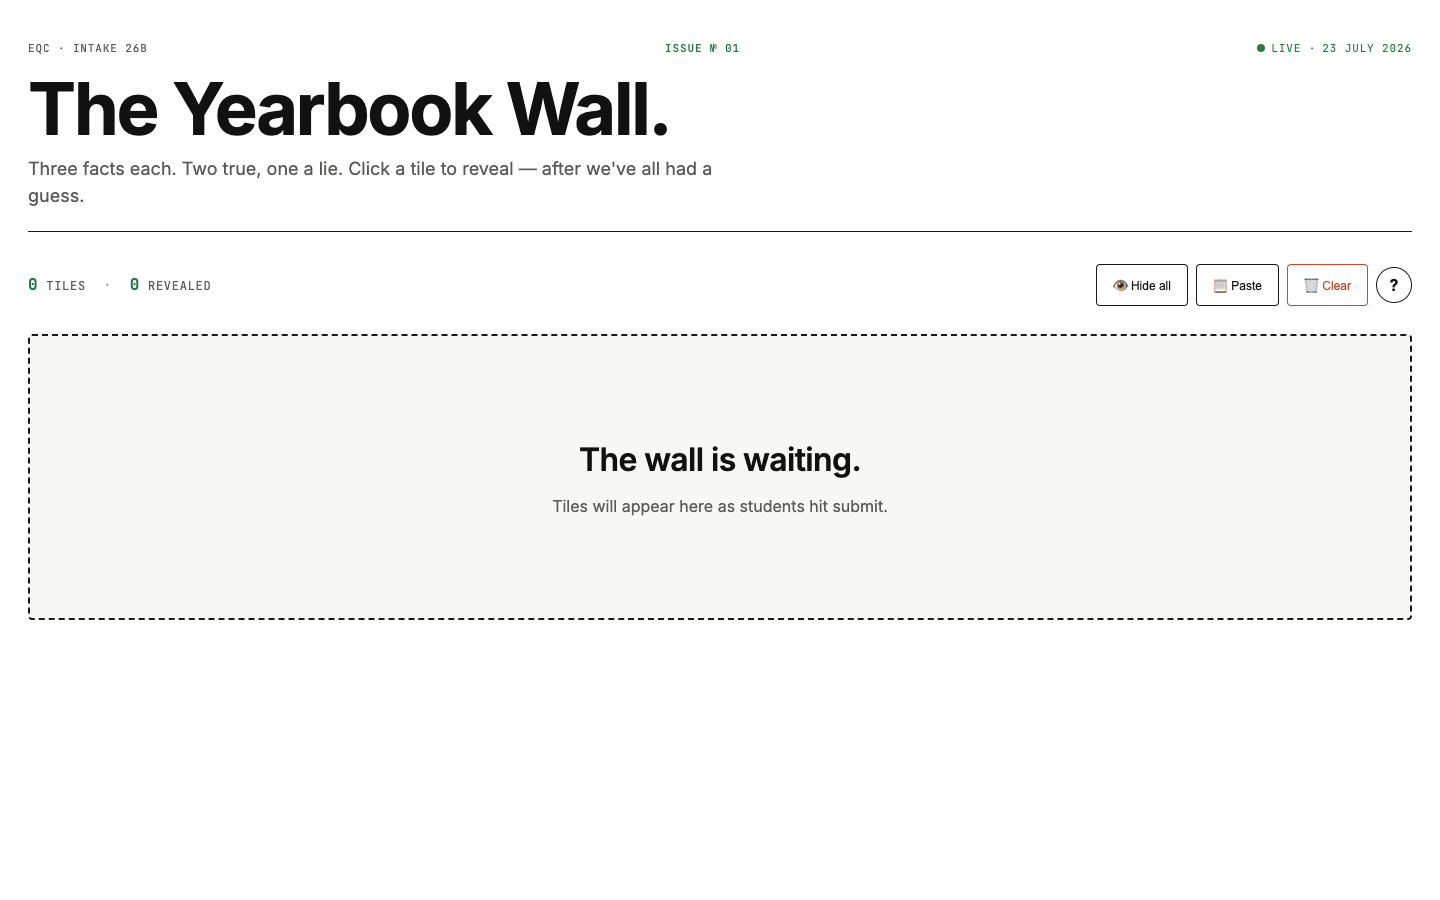
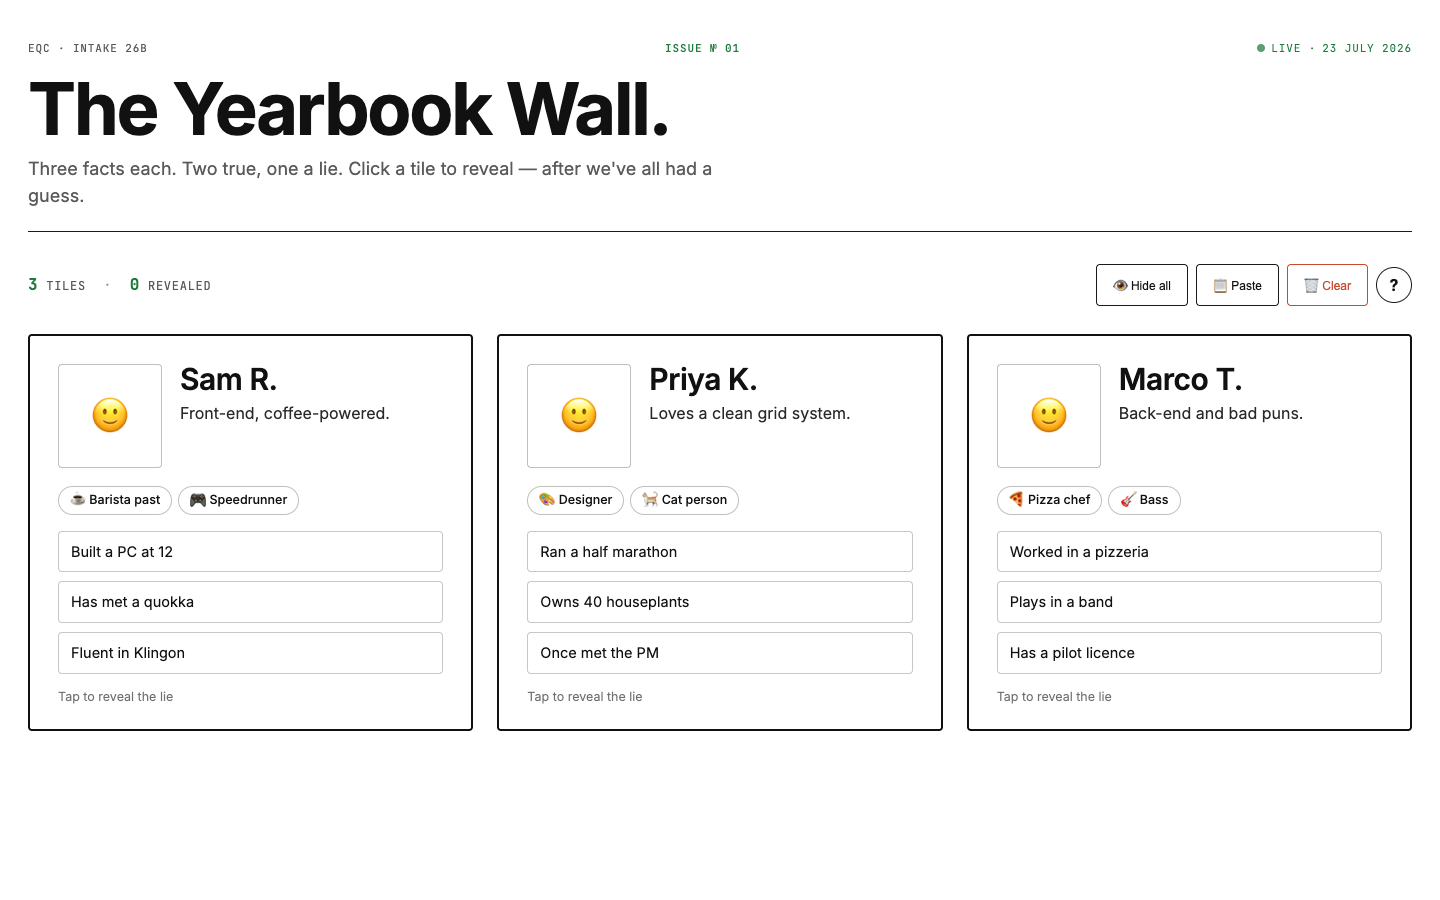
Lift client tiles, reorganise education work, halve mobile scroll
Client tiles: pale screenshots (Preservation Framers, Dora Health) were
dissolving into the near-white section. Cards now carry a 1px inset ring, a
layered shadow and a hover lift; screenshots get a bottom keyline; the client
section sits on a warm tint rather than pure white. Preservation Framers also
recaptured further down the page — workshop and framing samples instead of a
centred logo on white.

Education work reorganised into two labelled groups. Class hubs are now named
cohort-first with the intake in brackets — Tim's EQC Minions (26.13), Quokka
Squad (25G), Class Hub (26B), Class Page (25G) — with the course as the
kicker. Removed the two cohort dashboards and the Perth Campus Dashboard tile
(already the featured build at the top): 10 projects down to 7.

Yearbook Wall was screenshotting as an empty "the wall is waiting" state.
It now shows three example tiles so the format reads. Those tiles were
rendered client-side for the screenshot only — nothing was written to the
project's Firebase database, and the names are invented, not students.

Mobile: 18,931px of scroll down to 10,479px — 45% shorter, 22.4 screens to
12.4, with every thumbnail kept. Project grids go two-up via an opt-in
.grid-compact (other stacked grids are untouched), card text clamps to three
lines, phone mockups crop to 4:5 instead of 9:16, section rhythm tightens and
the logo wall packs more per row.

diff --git a/work.html b/work.html
@@ -143,14 +143,14 @@
   </section>
 
   <!-- ============ CLIENT WORK ============ -->
-  <section class="section" id="client-work" aria-labelledby="client-title" style="background:#fff;">
+  <section class="section" id="client-work" aria-labelledby="client-title" style="background:#FDF9F3;">
     <div class="wrap">
       <div class="section-head">
         <p class="kicker">Category 01</p>
         <h2 id="client-title">Client sites &amp; brands<span class="count-chip">7 projects</span></h2>
         <p>Businesses that needed a presence worth paying attention to — health, hospitality, trades, the arts and beyond.</p>
       </div>
-      <div class="grid-3">
+      <div class="grid-3 grid-compact">
 
         <article class="card project-card reveal">
           <img src="/assets/img/portfolio/dora-health.png" alt="Dora Health and Wellbeing website homepage" loading="lazy">
@@ -233,7 +233,7 @@
     </div>
   </section>
 
-  <svg class="divider" viewBox="0 0 1000 64" preserveAspectRatio="none" aria-hidden="true" style="background:#fff;">
+  <svg class="divider" viewBox="0 0 1000 64" preserveAspectRatio="none" aria-hidden="true" style="background:#FDF9F3;">
     <path d="M0,64 L0,30 C220,-10 480,58 720,26 C850,10 940,22 1000,16 L1000,64 Z" fill="#FFF8EF"/>
   </svg>
 
@@ -242,76 +242,61 @@
     <div class="wrap">
       <div class="section-head">
         <p class="kicker">Category 02</p>
-        <h2 id="campus-title">Campus &amp; education systems<span class="count-chip">10 projects</span></h2>
-        <p>An ongoing body of work for Equinim College — class hubs, dashboards, attendance tools and teaching resources, built alongside real cohorts and used daily by trainers and students.</p>
+        <h2 id="campus-title">Campus &amp; education systems<span class="count-chip">7 projects</span></h2>
+        <p>An ongoing body of work for Equinim College — a class hub for every cohort, plus the teaching tools and community pieces that go with them. Built alongside real intakes and used daily by trainers and students.</p>
       </div>
-      <div class="grid-3">
 
-        <article class="card project-card reveal">
-          <img src="/assets/img/portfolio/eqc-25g-dashboard.png" alt="25G Dashboard with attendance leaderboard and subject tracking" loading="lazy">
-          <div class="project-body">
-            <p class="kicker" style="margin-bottom:6px;">Cohort dashboard</p>
-            <h3>25G Dashboard</h3>
-            <p>A live classroom command centre — attendance leaderboards, subject progress and daily check-ins on one dark-mode board.</p>
-            <div class="tag-row"><span class="tag">Dashboard</span><span class="tag">Gamification</span></div>
-            <a class="card-link" href="https://25g-dashboard.vercel.app" rel="noopener">Visit site<span class="visually-hidden"> — 25G Dashboard (opens external site)</span> &rarr;</a>
-          </div>
-        </article>
-
-        <article class="card project-card reveal">
-          <img src="/assets/img/portfolio/eqc-intake-26b.png" alt="Intake 26B dashboard showing trainer, attendance, quiz and course progress panels" loading="lazy">
-          <div class="project-body">
-            <p class="kicker" style="margin-bottom:6px;">Cohort dashboard</p>
-            <h3>Intake 26B</h3>
-            <p>Diploma of IT cohort hub — today's topics, attendance, a daily quiz and course progress, all on a single glanceable screen.</p>
-            <div class="tag-row"><span class="tag">Dashboard</span><span class="tag">Daily quiz</span></div>
-            <a class="card-link" href="https://intake-25g-dashboard.vercel.app" rel="noopener">Visit site<span class="visually-hidden"> — Intake 26B (opens external site)</span> &rarr;</a>
-          </div>
-        </article>
-
-        <article class="card project-card reveal">
-          <img src="/assets/img/portfolio/eqc-quokka-squad.png" alt="Quokka Squad 25g class hub homepage" loading="lazy">
-          <div class="project-body">
-            <p class="kicker" style="margin-bottom:6px;">Class hub</p>
-            <h3>Quokka Squad 25g</h3>
-            <p>A friendly landing pad for the intake — schedules, resources and quick links, with QR-code attendance check-in built in.</p>
-            <div class="tag-row"><span class="tag">Class hub</span><span class="tag">QR attendance</span></div>
-            <a class="card-link" href="https://eqc-intake-25g.vercel.app" rel="noopener">Visit site<span class="visually-hidden"> — Quokka Squad 25g (opens external site)</span> &rarr;</a>
-          </div>
-        </article>
-
-        <article class="card project-card reveal">
-          <img src="/assets/img/portfolio/eqc-classhub-26b.png" alt="26B Class Hub with course overview and lesson resources" loading="lazy">
-          <div class="project-body">
-            <p class="kicker" style="margin-bottom:6px;">Class hub</p>
-            <h3>26B Class Hub</h3>
-            <p>Front-end web dev course hub — schedule, downloads, cheat sheets and lesson code, bookmarked by the whole cohort.</p>
-            <div class="tag-row"><span class="tag">Class hub</span><span class="tag">Resources</span></div>
-            <a class="card-link" href="https://eqc-26b-classhub.vercel.app" rel="noopener">Visit site<span class="visually-hidden"> — 26B Class Hub (opens external site)</span> &rarr;</a>
-          </div>
-        </article>
+      <p class="subhead">Cohort class hubs</p>
+      <div class="grid-3 grid-compact">
 
         <article class="card project-card reveal">
           <img src="/assets/img/portfolio/eqc-classhub-2613.png" alt="Tim's EQC Minions class hub for intake 26.13" loading="lazy">
           <div class="project-body">
-            <p class="kicker" style="margin-bottom:6px;">Class hub</p>
-            <h3>Intake 26.13 Hub</h3>
-            <p>Central hub for the web development intake — install-your-tools onboarding, attendance and each week's class in one place.</p>
+            <p class="kicker" style="margin-bottom:6px;">Web development</p>
+            <h3>Tim's EQC Minions <span style="color:var(--purple-deep);">(26.13)</span></h3>
+            <p>Central hub for the intake — install-your-tools onboarding, attendance and each week's class in one place.</p>
             <div class="tag-row"><span class="tag">Class hub</span><span class="tag">Onboarding</span></div>
-            <a class="card-link" href="https://eqc-2613-classhub.vercel.app" rel="noopener">Visit site<span class="visually-hidden"> — Intake 26.13 Hub (opens external site)</span> &rarr;</a>
+            <a class="card-link" href="https://eqc-2613-classhub.vercel.app" rel="noopener">Visit site<span class="visually-hidden"> — Tim's EQC Minions 26.13 (opens external site)</span> &rarr;</a>
           </div>
         </article>
 
         <article class="card project-card reveal">
-          <img src="/assets/img/portfolio/eqc-class-page-25g.png" alt="Intake 25g class page showing subject 3 back-end web app project" loading="lazy">
+          <img src="/assets/img/portfolio/eqc-quokka-squad.png" alt="Quokka Squad class hub homepage for intake 25G" loading="lazy">
           <div class="project-body">
-            <p class="kicker" style="margin-bottom:6px;">Class hub</p>
-            <h3>Intake 25g Class Page</h3>
-            <p>Subject-by-subject project briefs with a daily trivia game and attendance leaderboard to keep a long course moving.</p>
-            <div class="tag-row"><span class="tag">Class hub</span><span class="tag">Project briefs</span></div>
-            <a class="card-link" href="https://class-page-inky.vercel.app" rel="noopener">Visit site<span class="visually-hidden"> — Intake 25g Class Page (opens external site)</span> &rarr;</a>
+            <p class="kicker" style="margin-bottom:6px;">Diploma of IT</p>
+            <h3>Quokka Squad <span style="color:var(--purple-deep);">(25G)</span></h3>
+            <p>A friendly landing pad for the intake — schedules, resources and quick links, with QR-code attendance check-in built in.</p>
+            <div class="tag-row"><span class="tag">Class hub</span><span class="tag">QR attendance</span></div>
+            <a class="card-link" href="https://eqc-intake-25g.vercel.app" rel="noopener">Visit site<span class="visually-hidden"> — Quokka Squad 25G (opens external site)</span> &rarr;</a>
           </div>
         </article>
+
+        <article class="card project-card reveal">
+          <img src="/assets/img/portfolio/eqc-classhub-26b.png" alt="Front-end web dev class hub for intake 26B" loading="lazy">
+          <div class="project-body">
+            <p class="kicker" style="margin-bottom:6px;">Front-end web dev</p>
+            <h3>Class Hub <span style="color:var(--purple-deep);">(26B)</span></h3>
+            <p>Week-by-week course hub — schedule, downloads, cheat sheets and lesson code, bookmarked by the whole cohort.</p>
+            <div class="tag-row"><span class="tag">Class hub</span><span class="tag">Resources</span></div>
+            <a class="card-link" href="https://eqc-26b-classhub.vercel.app" rel="noopener">Visit site<span class="visually-hidden"> — Class Hub 26B (opens external site)</span> &rarr;</a>
+          </div>
+        </article>
+
+        <article class="card project-card reveal">
+          <img src="/assets/img/portfolio/eqc-class-page-25g.png" alt="Back-end web dev class page for intake 25G showing a subject project brief" loading="lazy">
+          <div class="project-body">
+            <p class="kicker" style="margin-bottom:6px;">Back-end web dev</p>
+            <h3>Class Page <span style="color:var(--purple-deep);">(25G)</span></h3>
+            <p>Subject-by-subject project briefs with a daily trivia game and attendance leaderboard to keep a long course moving.</p>
+            <div class="tag-row"><span class="tag">Class hub</span><span class="tag">Project briefs</span></div>
+            <a class="card-link" href="https://class-page-inky.vercel.app" rel="noopener">Visit site<span class="visually-hidden"> — Class Page 25G (opens external site)</span> &rarr;</a>
+          </div>
+        </article>
+
+      </div>
+
+      <p class="subhead">Teaching tools &amp; community</p>
+      <div class="grid-3 grid-compact">
 
         <article class="card project-card reveal">
           <img src="/assets/img/portfolio/webdev-bootstrap.png" alt="Bootstrap Hiring Ceremony teaching tool" loading="lazy">
@@ -319,7 +304,7 @@
             <p class="kicker" style="margin-bottom:6px;">Teaching tool</p>
             <h3>Bootstrap Hiring Ceremony</h3>
             <p>Turns a coding brief into a live event — students are drafted as employee cards into fictional companies, so a dry framework lesson gets some theatre.</p>
-            <div class="tag-row"><span class="tag">Teaching tool</span><span class="tag">Live event</span></div>
+            <div class="tag-row"><span class="tag">Live event</span><span class="tag">Teaching</span></div>
             <a class="card-link" href="https://webdev-bootstrap.vercel.app" rel="noopener">Visit site<span class="visually-hidden"> — Bootstrap Hiring Ceremony (opens external site)</span> &rarr;</a>
           </div>
         </article>
@@ -330,30 +315,19 @@
             <p class="kicker" style="margin-bottom:6px;">Teaching tool</p>
             <h3>Quokka Careers™</h3>
             <p>"The internet's most emotionally supportive fake tech recruiter" — a job-application sandbox that lets students practise for real without the rejection.</p>
-            <div class="tag-row"><span class="tag">Teaching tool</span><span class="tag">Copywriting</span></div>
+            <div class="tag-row"><span class="tag">Sandbox</span><span class="tag">Copywriting</span></div>
             <a class="card-link" href="https://eqc-25g-quokkascareers.vercel.app" rel="noopener">Visit site<span class="visually-hidden"> — Quokka Careers (opens external site)</span> &rarr;</a>
           </div>
         </article>
 
         <article class="card project-card reveal">
-          <img src="/assets/img/portfolio/eqc-yearbook-26b.png" alt="26B Yearbook Wall submission page" loading="lazy">
+          <img src="/assets/img/portfolio/eqc-yearbook-26b.png" alt="Yearbook Wall showing example tiles, each with a photo, tags and three facts" loading="lazy">
           <div class="project-body">
             <p class="kicker" style="margin-bottom:6px;">Community</p>
-            <h3>26B Yearbook Wall</h3>
-            <p>A digital yearbook the cohort fills in themselves — three facts each, two true, one a lie, revealed on click.</p>
+            <h3>Yearbook Wall <span style="color:var(--purple-deep);">(26B)</span></h3>
+            <p>A digital yearbook the cohort fills in themselves — three facts each, two true and one a lie, revealed on click.</p>
             <div class="tag-row"><span class="tag">Community</span><span class="tag">Interactive</span></div>
-            <a class="card-link" href="https://www.eqc-26b.xyz" rel="noopener">Visit site<span class="visually-hidden"> — 26B Yearbook (opens external site)</span> &rarr;</a>
-          </div>
-        </article>
-
-        <article class="card project-card reveal">
-          <img src="/assets/img/portfolio/eqc-welcome-tv.png" alt="EQC Perth Campus Dashboard lobby welcome board" loading="lazy">
-          <div class="project-body">
-            <p class="kicker" style="margin-bottom:6px;">Campus system</p>
-            <h3>EQC Perth Campus Dashboard</h3>
-            <p>The lobby board, admin panel and mobile companion covered in the featured build above.</p>
-            <div class="tag-row"><span class="tag">Multi-device</span><span class="tag">Live data</span></div>
-            <a class="card-link" href="#featured">See the full breakdown &uarr;</a>
+            <a class="card-link" href="https://www.eqc-26b.xyz" rel="noopener">Visit site<span class="visually-hidden"> — Yearbook Wall 26B (opens external site)</span> &rarr;</a>
           </div>
         </article>
 
@@ -373,7 +347,7 @@
         <h2 id="apps-title">Apps &amp; tools<span class="count-chip">2 projects</span></h2>
         <p>Products that do a job — turning dense information or manual admin into something a person can actually use.</p>
       </div>
-      <div class="grid-2">
+      <div class="grid-2 grid-compact">
 
         <article class="card project-card reveal">
           <img src="/assets/img/portfolio/renter-rights-hub.png" alt="Perth Renter Rights Hub web app homepage" loading="lazy">
@@ -409,7 +383,7 @@
         <h2 id="interactive-title">Games &amp; interactive<span class="count-chip">6 projects</span></h2>
         <p>Where the experiments live. Built fast, usually for a class or a celebration — and genuinely useful for pressure-testing an idea before it goes near client work.</p>
       </div>
-      <div class="grid-3">
+      <div class="grid-3 grid-compact">
 
         <article class="card project-mini reveal">
           <img src="/assets/img/portfolio/skwerdiality.png" alt="Scwerdiality Aussie word search game" loading="lazy">
@@ -477,7 +451,7 @@
         <h2 id="clients-title">Brands we've helped shape.</h2>
         <p>Websites, identities, strategy and creative direction across hospitality, health, trades, arts, education and the public sector.</p>
       </div>
-      <ul style="list-style:none; display:grid; grid-template-columns:repeat(auto-fill, minmax(130px, 1fr)); gap:20px; align-items:center;">
+      <ul class="logo-wall" style="list-style:none; display:grid; grid-template-columns:repeat(auto-fill, minmax(130px, 1fr)); gap:20px; align-items:center;">
         <li><img src="/assets/img/clients/preservation-logo.png" alt="Preservation Framers" loading="lazy" style="max-height:56px; width:auto; margin-inline:auto;"></li>
         <li><img src="/assets/img/clients/drumplings-logo.png" alt="Drumplings" loading="lazy" style="max-height:56px; width:auto; margin-inline:auto;"></li>
         <li><img src="/assets/img/clients/dorahealth-logo.png" alt="Dora Health" loading="lazy" style="max-height:56px; width:auto; margin-inline:auto;"></li>

diff --git a/assets/css/styles.css b/assets/css/styles.css
@@ -335,18 +335,42 @@ a:hover { color: var(--cerise); }
 .icon-cluster { display: block; position: relative; width: 56px; height: 38px; margin-bottom: 16px; }
 .icon-cluster i { position: absolute; top: 0; width: 34px; height: 34px; border-radius: 50%; mix-blend-mode: multiply; opacity: 0.9; }
 
-/* project cards */
-.project-card { display: flex; flex-direction: column; overflow: hidden; padding: 0; }
-.project-card img { aspect-ratio: 16 / 10; object-fit: cover; object-position: top; width: 100%; background: #EFEAF5; }
+/* project cards — a defined edge and lift, so pale screenshots (framers,
+   dora health) don't dissolve into a light section background */
+.project-card, .project-mini {
+  display: flex; flex-direction: column; overflow: hidden; padding: 0;
+  box-shadow:
+    inset 0 0 0 1px rgba(42, 30, 63, 0.12),
+    0 2px 4px rgba(42, 30, 63, 0.05),
+    0 14px 30px -16px rgba(42, 30, 63, 0.24);
+  transition: transform 0.18s ease, box-shadow 0.18s ease;
+}
+.project-card:hover, .project-mini:hover {
+  transform: translateY(-4px);
+  box-shadow:
+    inset 0 0 0 1px rgba(117, 80, 149, 0.4),
+    0 20px 42px -16px rgba(42, 30, 63, 0.34);
+}
+.project-card img, .project-mini img {
+  aspect-ratio: 16 / 10; object-fit: cover; object-position: top; width: 100%;
+  background: #EFEAF5;
+  border-bottom: 1px solid rgba(42, 30, 63, 0.14); /* separates white screenshots from white card */
+}
 .project-card .project-body { padding: 22px; display: flex; flex-direction: column; flex: 1; }
 .project-card .project-body .card-link { margin-top: auto; padding-top: 12px; }
 
 /* compact card for the long-tail lists */
-.project-mini { padding: 0; overflow: hidden; }
-.project-mini img { aspect-ratio: 16 / 10; object-fit: cover; object-position: top; width: 100%; background: #EFEAF5; }
 .project-mini .project-body { padding: 16px 18px; }
 .project-mini h3 { font-size: 1.05rem; }
 .project-mini p { font-size: 0.88rem; margin-top: 4px; }
+
+/* sub-heading inside a category, for grouping like work by type */
+.subhead {
+  display: flex; align-items: center; gap: 14px; margin: 40px 0 18px;
+  font-size: 0.82rem; font-weight: 700; letter-spacing: 0.13em; text-transform: uppercase; color: var(--ink-soft);
+}
+.subhead::after { content: ""; flex: 1; height: 1px; background: rgba(42, 30, 63, 0.14); }
+.subhead:first-of-type { margin-top: 0; }
 
 /* featured case study — device breakdown */
 .case-study { background: var(--cy-plum); color: #fff; border-radius: var(--r-card); overflow: hidden; }
@@ -653,4 +677,38 @@ a:hover { color: var(--cerise); }
 @media (max-width: 700px) {
   .hero .btn-row .btn { flex: 1 1 auto; }
   .op-art { min-height: 220px; }
+
+  /* ---- compact portfolio on mobile ----
+     Two-up thumbnails instead of one, so every visual survives but the page
+     stops being a marathon. Opt-in via .grid-compact; other single-column
+     grids (pricing, values, process) keep their full-width stacking. */
+  .grid-2.grid-compact, .grid-3.grid-compact { grid-template-columns: 1fr 1fr; gap: 12px; }
+  .grid-compact .project-body { padding: 12px 13px 14px; }
+  .grid-compact .kicker { font-size: 0.6rem; margin-bottom: 4px; gap: 6px; }
+  .grid-compact .kicker::before { width: 14px; }
+  .grid-compact h3 { font-size: 0.95rem; line-height: 1.2; }
+  .grid-compact p {
+    font-size: 0.78rem; line-height: 1.42; margin-top: 5px;
+    display: -webkit-box; -webkit-line-clamp: 3; -webkit-box-orient: vertical; overflow: hidden;
+  }
+  .grid-compact .tag-row { gap: 4px; margin-top: 8px; }
+  .grid-compact .tag { font-size: 0.6rem; padding: 2px 8px; }
+  .grid-compact .card-link { font-size: 0.78rem; padding-top: 9px; }
+  .grid-compact .project-card img, .grid-compact .project-mini img { aspect-ratio: 4 / 3; }
+
+  /* tighter rhythm between sections */
+  .section { padding-block: clamp(34px, 7vw, 52px); }
+  .section-head { margin-bottom: 20px; }
+  .count-chip { font-size: 0.7rem; padding: 2px 9px; }
+
+  /* the two phone views are very tall at 9:16 — crop shorter, keep them legible */
+  .device-phone img { aspect-ratio: 4 / 5; }
+  .device-grid { gap: 12px; }
+  .device { padding: 12px; }
+  .device p { font-size: 0.82rem; }
+  .tv-mount { padding-inline: 16px; }
+
+  /* logo wall: more per row, less scroll */
+  .logo-wall { grid-template-columns: repeat(auto-fill, minmax(78px, 1fr)) !important; gap: 12px !important; }
+  .logo-wall img { max-height: 38px !important; }
 }
